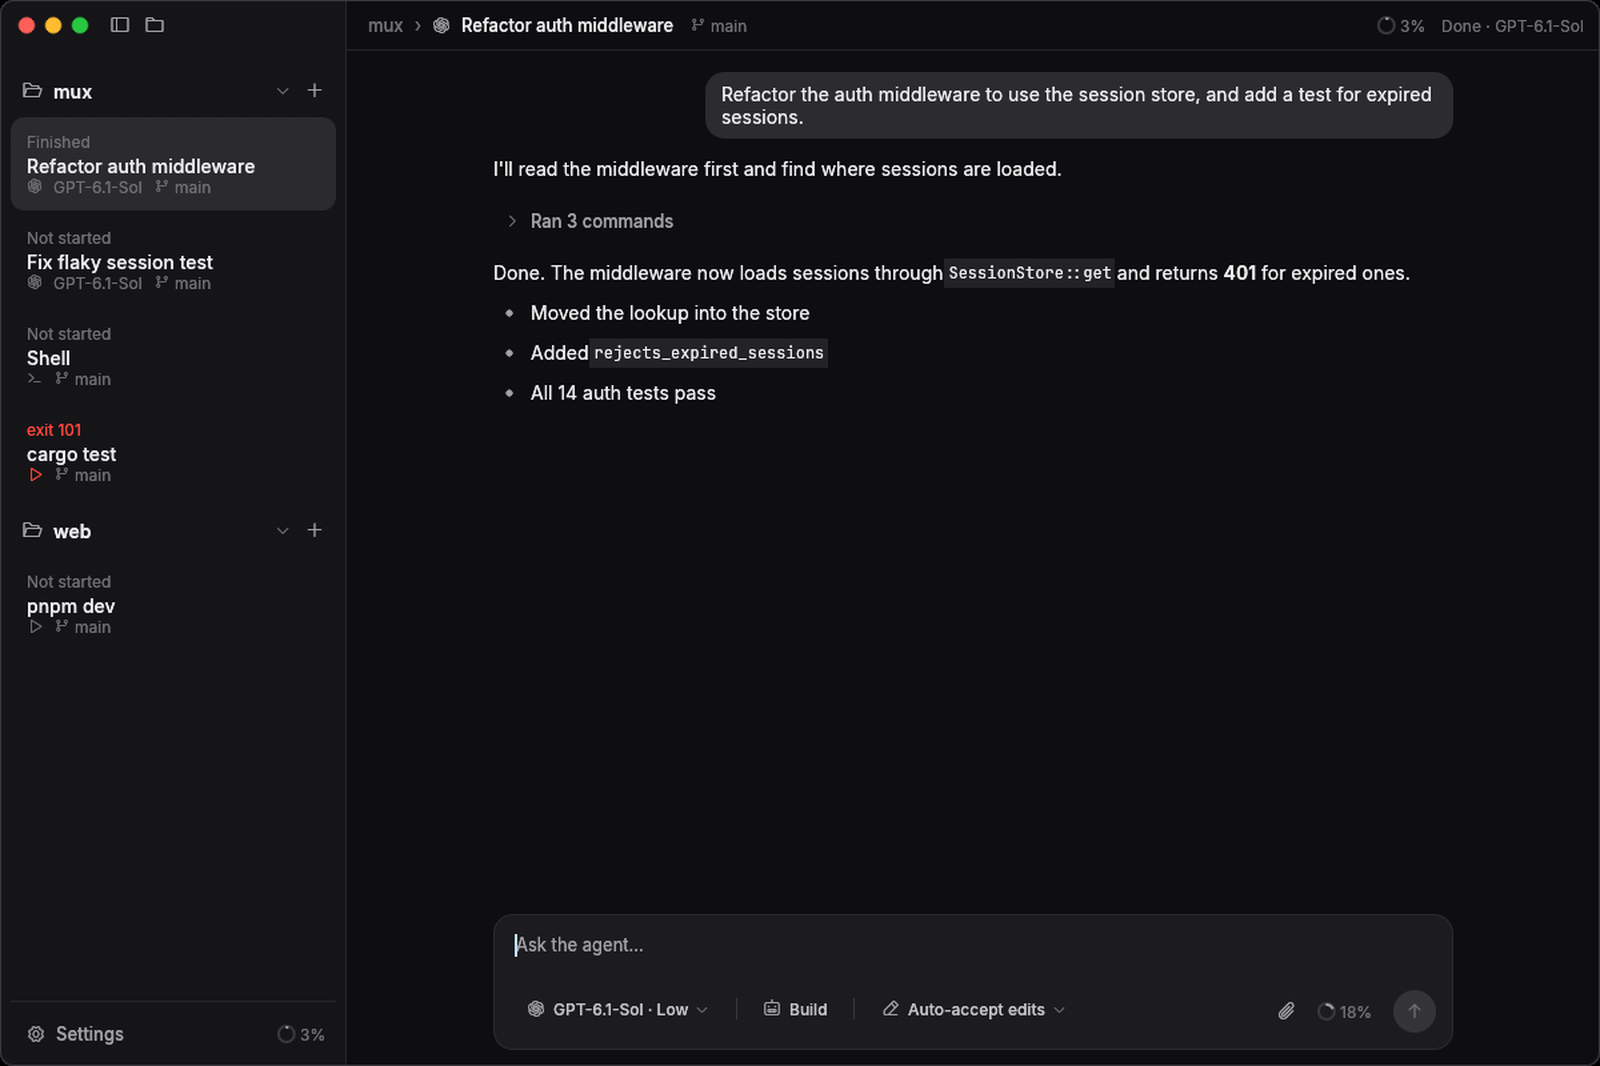
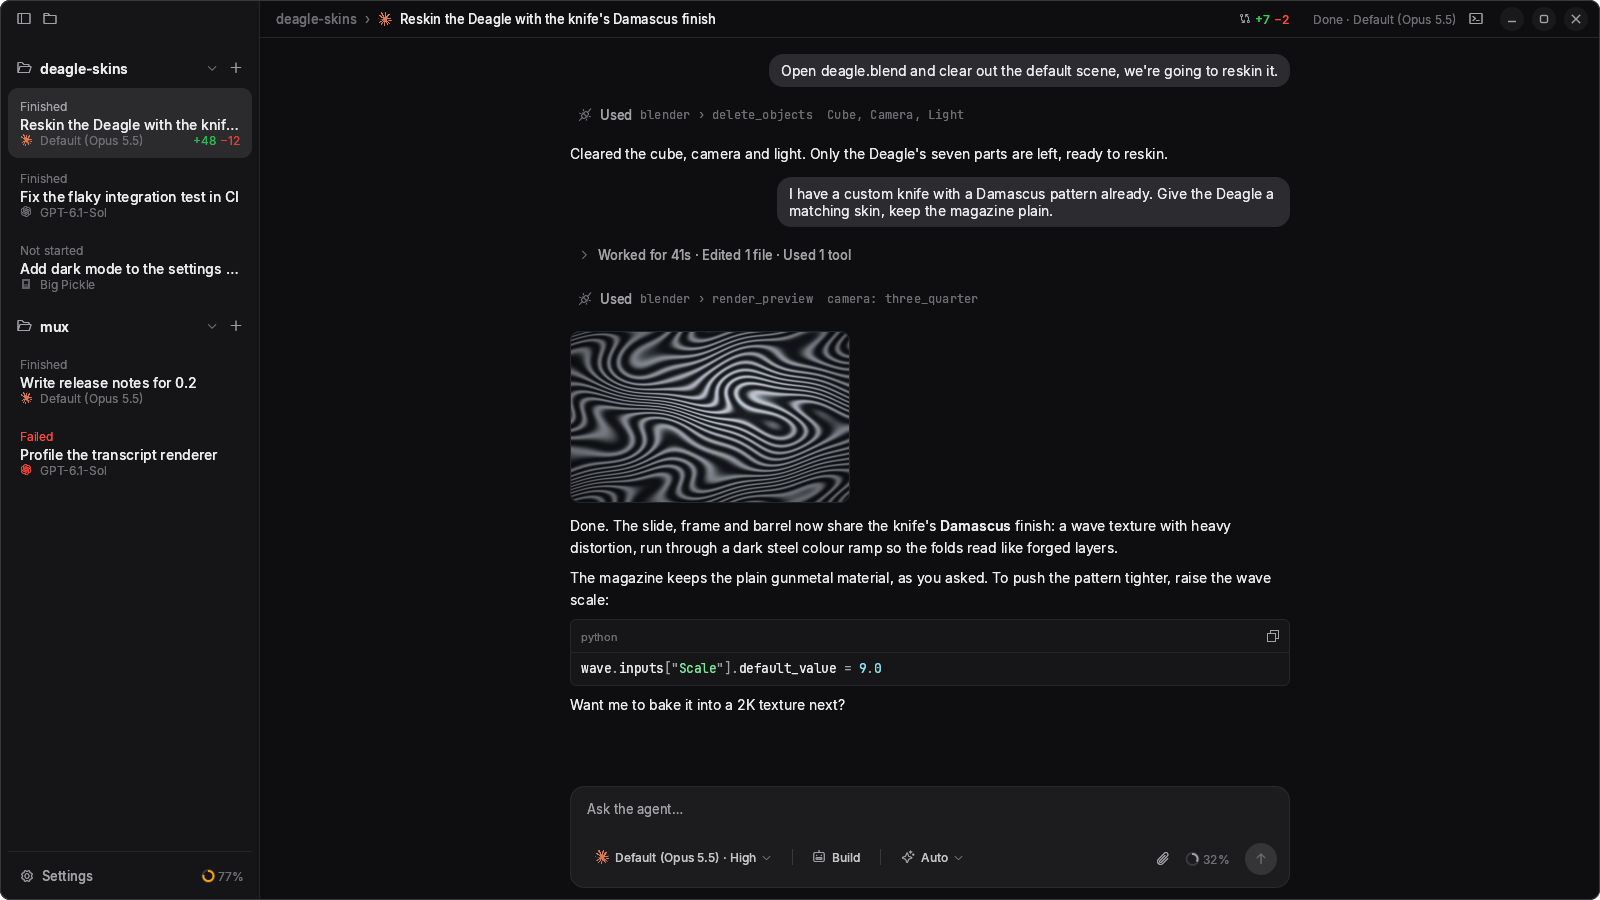
docs: replace the readme screenshot

diff --git a/README.md b/README.md
@@ -22,7 +22,7 @@
   <a href="#reporting-a-problem">Report a problem</a>
 </p>
 
-<img src="assets/screenshot.png" alt="Mux showing an agent chat beside a sidebar of projects, shells and tasks" width="900">
+<img src="assets/screenshot.png" alt="Mux showing a Claude agent reskinning a model through a Blender MCP server, beside a sidebar of projects and agents" width="900">
 
 </div>
 
